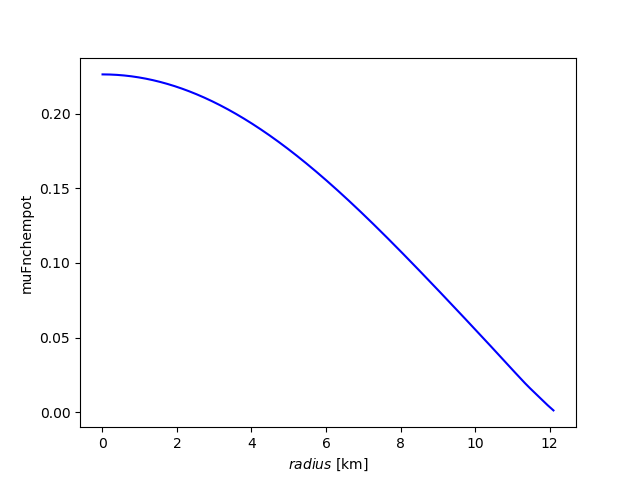
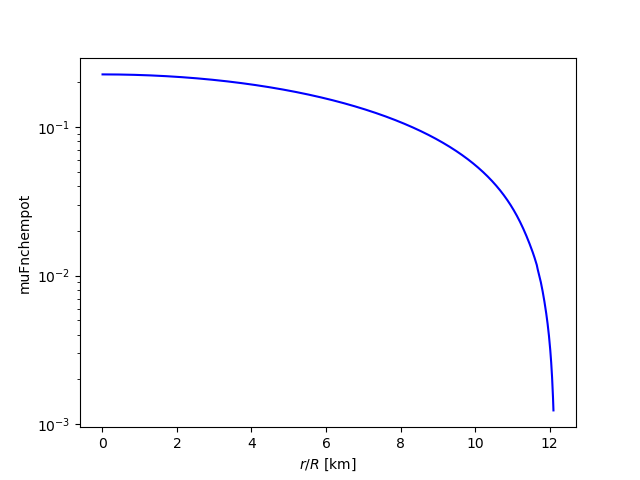
ok

diff --git a/cap_c/monte_carlo/py_read.py b/cap_c/monte_carlo/py_read.py
@@ -56,7 +56,7 @@ def single_plot( chosen_file ):
     fig, ax1 = plt.subplots()
     ax1.plot(domain, range, color='blue')
     ax1.set(xlabel = r'$r/R$ [km]', ylabel = chosen_file)
-    # ax1.set_yscale('log')
+    ax1.set_yscale('log')
     plt.savefig(chosen_file + '.png')
 
 
@@ -84,6 +84,6 @@ def cap_rate_plots():
     ax1.loglog(domain, range, color='blue')
     ax1.set(xlabel = r'$m$ [GeV]', ylabel = r'$C$')
     ax1.axis([1e-6, 1e2, 1e14, 1e38])
-    plt.savefig('cap_rate_plot.png')
+    plt.savefig('muFnchempot.png')
 
-cap_rate_plots()
+single_plot('muFnchempot')
